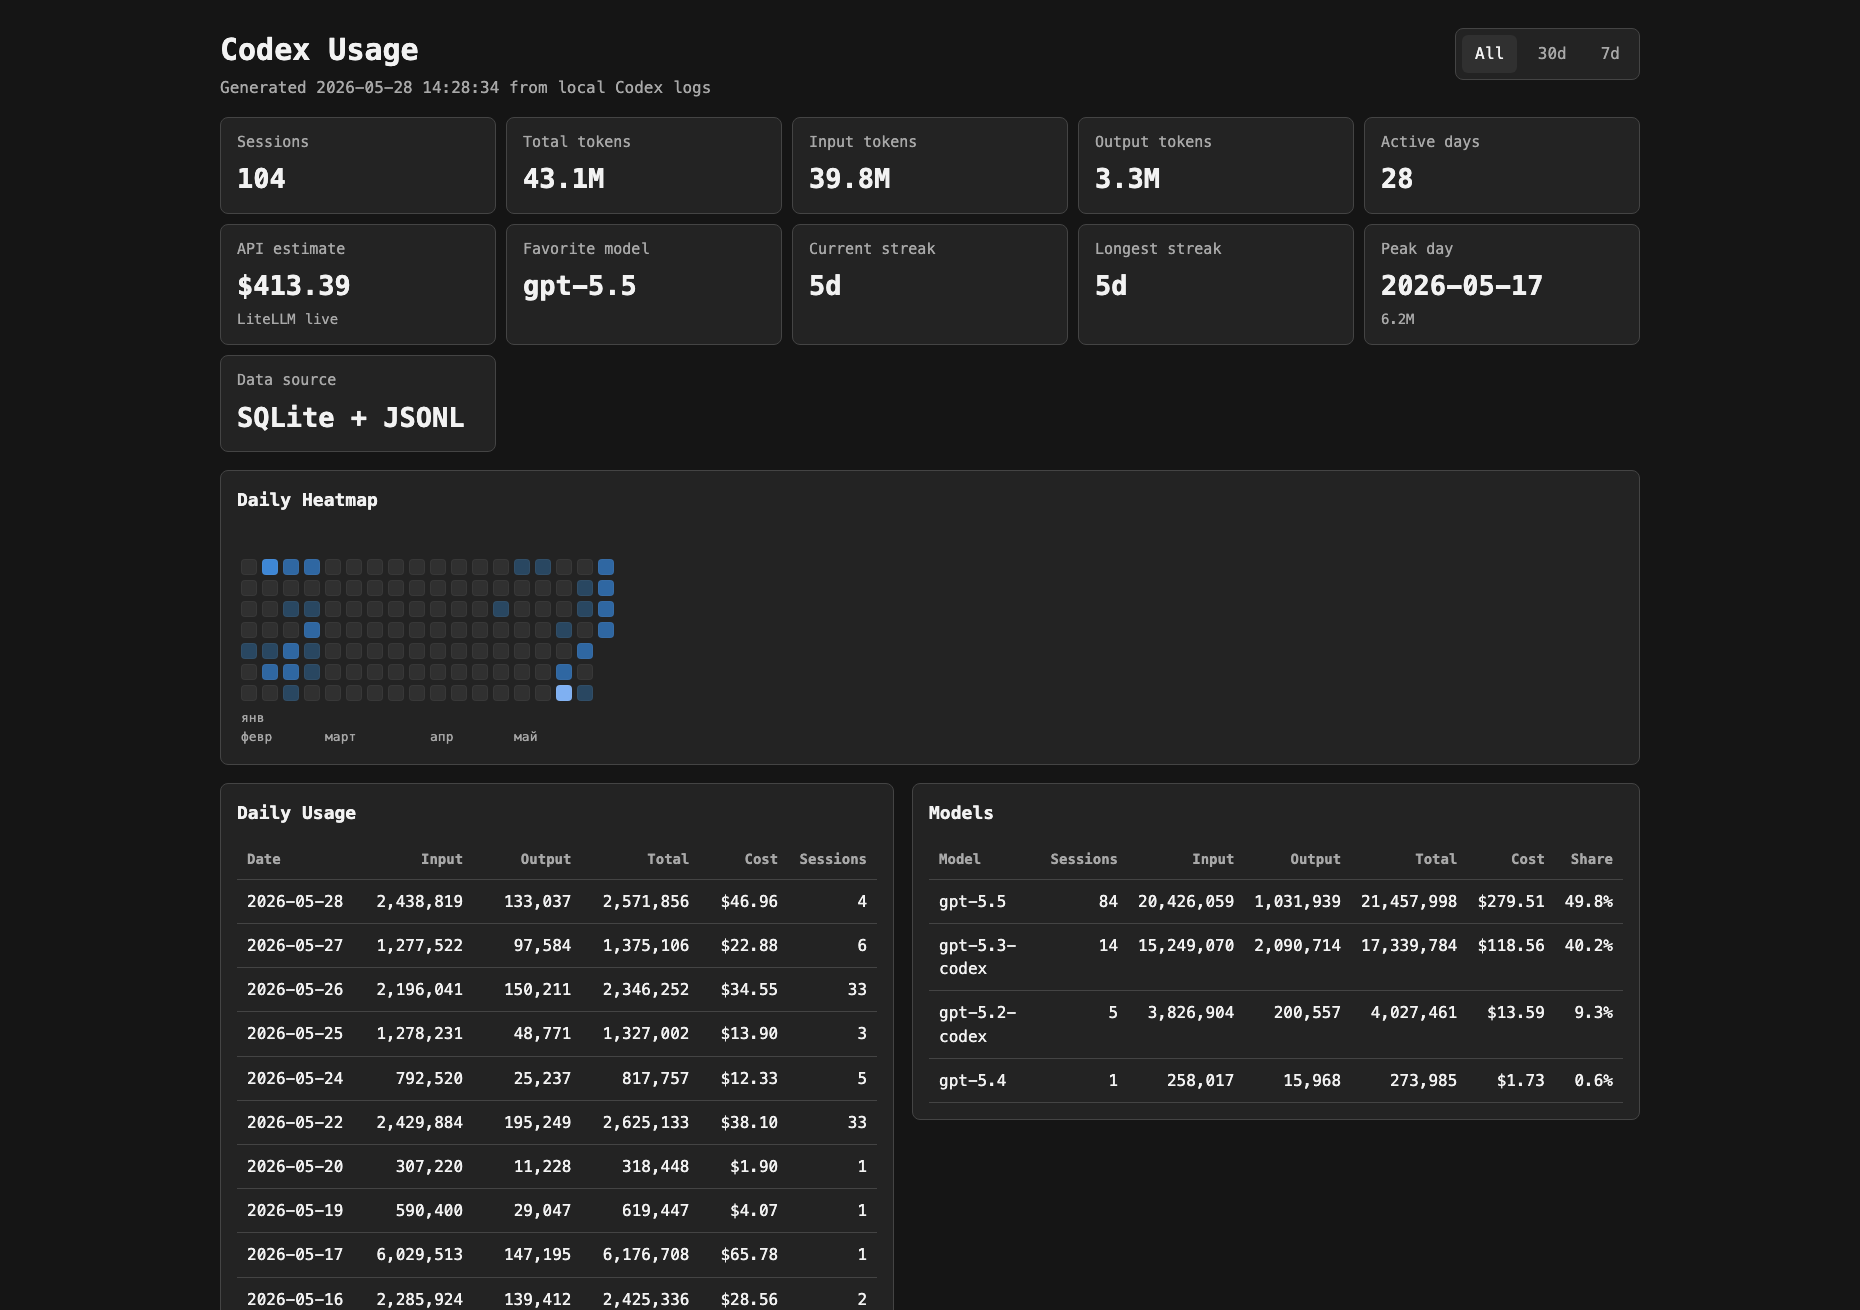
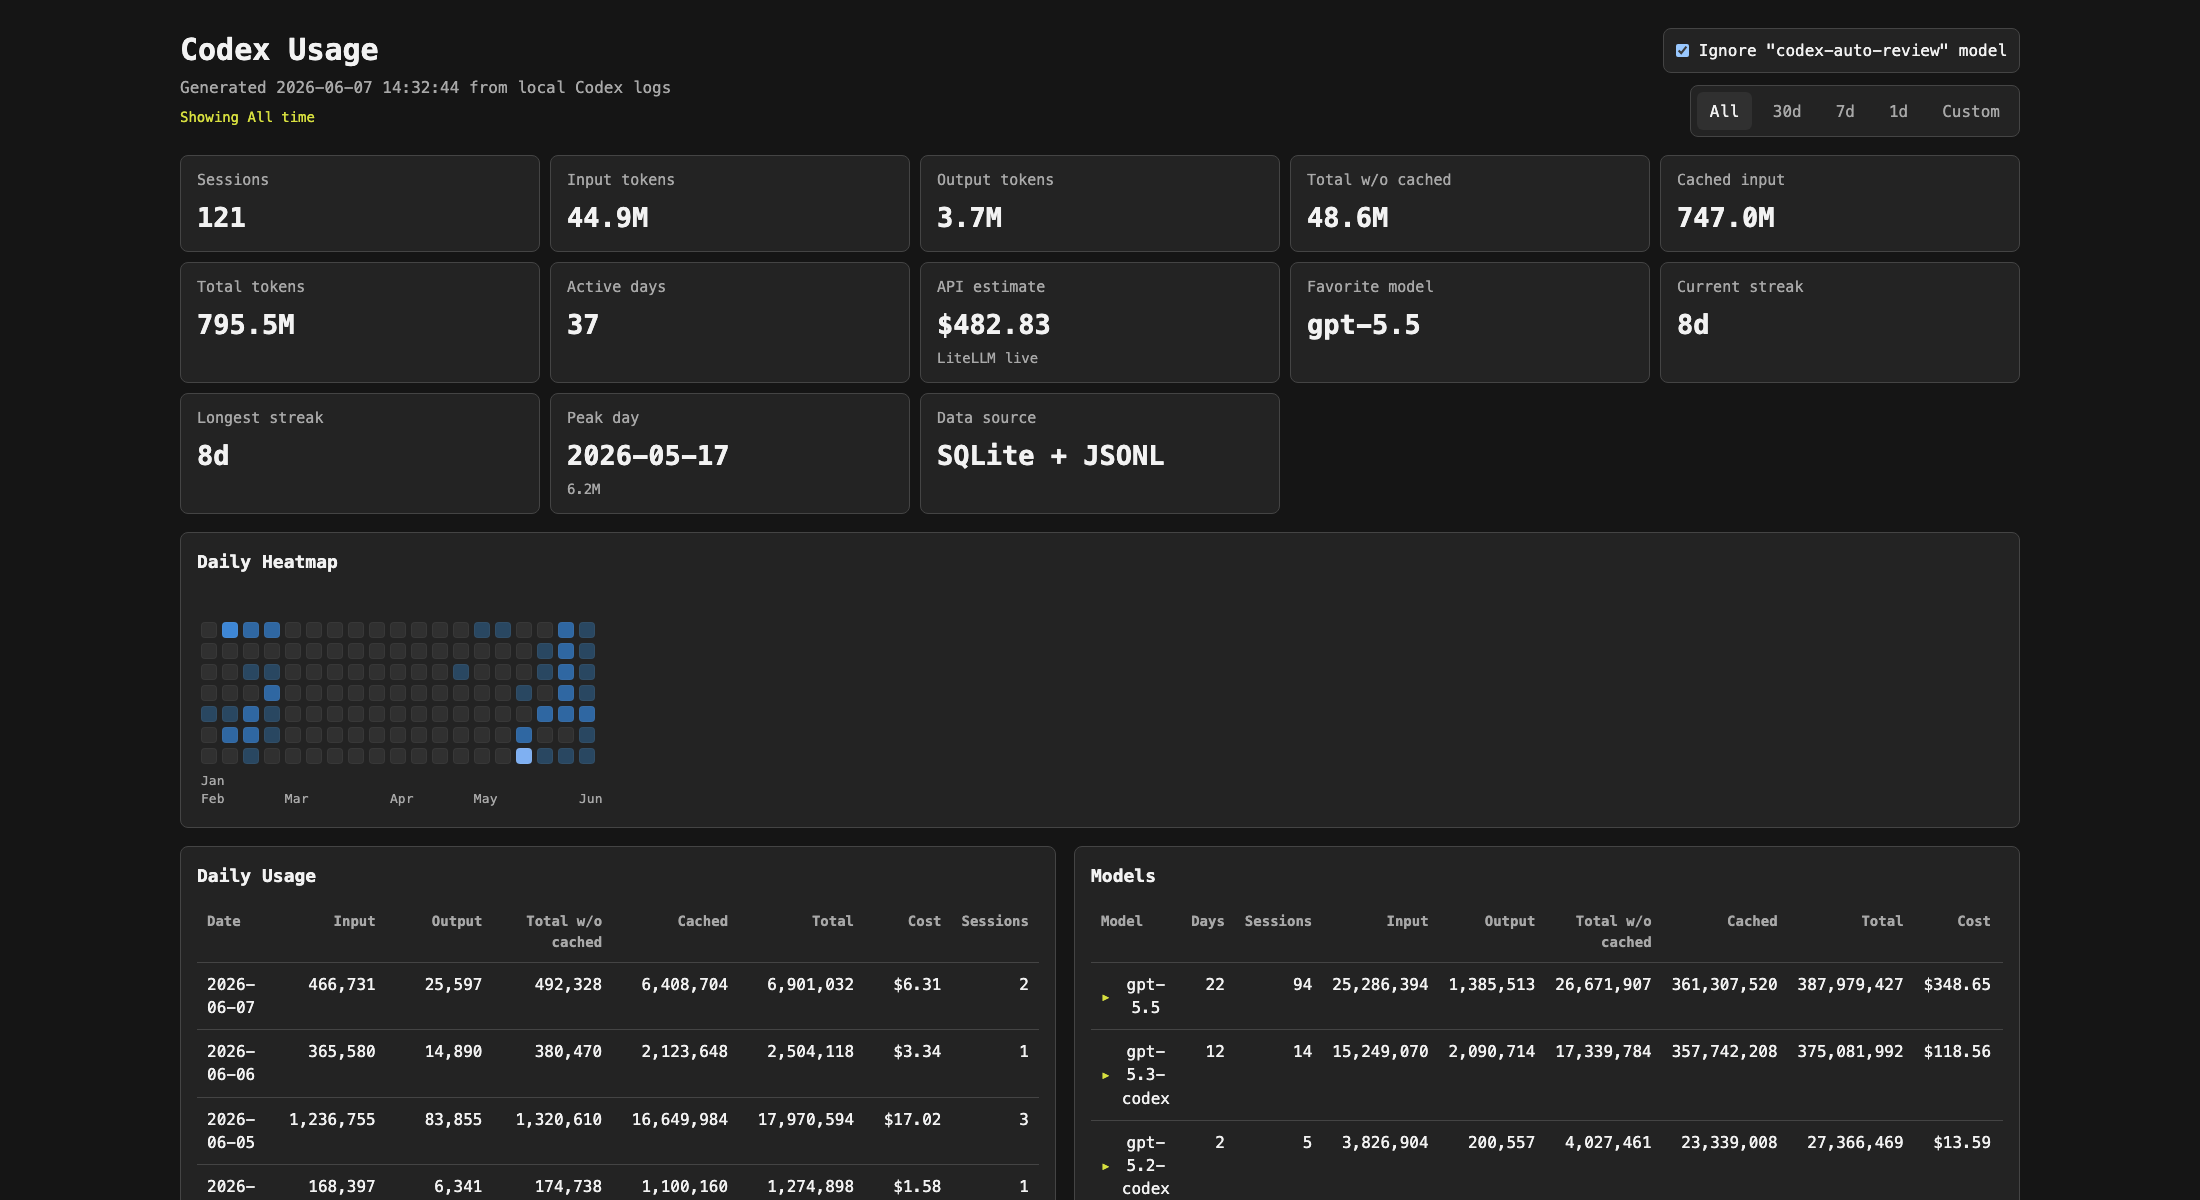
Prepare 1.0.2 release

diff --git a/src/main.js b/src/main.js
@@ -24,7 +24,7 @@ const expandedModels = new Set();
 
 const numberFormatter = new Intl.NumberFormat("en-US");
 const moneyFormatter = new Intl.NumberFormat("en-US", { style: "currency", currency: "USD" });
-const monthFormatter = new Intl.DateTimeFormat("ru-RU", { month: "short" });
+const monthFormatter = new Intl.DateTimeFormat("en-US", { month: "short" });
 
 function compact(value) {
   const number = Number(value || 0);
@@ -203,9 +203,9 @@ function renderModelDetails(row) {
       <div class="detail-meta">Used on ${full(row.active_days)} day(s) in this range.</div>
       <div class="table-scroll">
         <table class="detail-table">
-          <thead><tr><th>Date</th><th class="num">Input</th><th class="num">Cached</th><th class="num">Output</th><th class="num">Total</th><th class="num">Cost</th><th class="num">Sessions</th></tr></thead>
+          <thead><tr><th>Date</th><th class="num">Input</th><th class="num">Output</th><th class="num">Total w/o cached</th><th class="num">Cached</th><th class="num">Total</th><th class="num">Cost</th><th class="num">Sessions</th></tr></thead>
           <tbody>
-            ${row.daily.map((item) => `<tr><td>${escapeHtml(item.day)}</td><td class="num">${full(item.input_tokens)}</td><td class="num">${full(item.cached_input_tokens)}</td><td class="num">${full(item.output_tokens)}</td><td class="num">${full(item.total_tokens)}</td><td class="num">${money(item.cost_usd)}</td><td class="num">${full(item.sessions)}</td></tr>`).join("")}
+            ${row.daily.map((item) => `<tr><td>${escapeHtml(item.day)}</td><td class="num">${full(item.input_tokens)}</td><td class="num">${full(item.output_tokens)}</td><td class="num">${full(item.total_tokens)}</td><td class="num">${full(item.cached_input_tokens)}</td><td class="num">${full(item.total_with_cached_tokens)}</td><td class="num">${money(item.cost_usd)}</td><td class="num">${full(item.sessions)}</td></tr>`).join("")}
           </tbody>
         </table>
       </div>
@@ -253,10 +253,11 @@ function render(data) {
 
     <div class="cards">
       ${card("Sessions", full(totals.sessions))}
-      ${card("Total tokens", compact(totals.total_tokens))}
       ${card("Input tokens", compact(totals.input_tokens))}
-      ${card("Cached input", compact(totals.cached_input_tokens))}
       ${card("Output tokens", compact(totals.output_tokens))}
+      ${card("Total w/o cached", compact(totals.total_tokens))}
+      ${card("Cached input", compact(totals.cached_input_tokens))}
+      ${card("Total tokens", compact(totals.total_with_cached_tokens))}
       ${card("Active days", full(totals.active_days))}
       ${card("API estimate", `${money(totals.cost_usd)}<span class="metric-note">${escapeHtml(data.pricing?.source || "pricing unavailable")}</span>`)}
       ${card("Favorite model", escapeHtml(data.favorite_model))}
@@ -285,11 +286,11 @@ function render(data) {
         <h2>Daily Usage</h2>
         <div class="table-scroll">
           <table>
-            <thead><tr><th>Date</th><th class="num">Input</th><th class="num">Cached</th><th class="num">Output</th><th class="num">Total</th><th class="num">Cost</th><th class="num">Sessions</th></tr></thead>
+            <thead><tr><th>Date</th><th class="num">Input</th><th class="num">Output</th><th class="num">Total w/o cached</th><th class="num">Cached</th><th class="num">Total</th><th class="num">Cost</th><th class="num">Sessions</th></tr></thead>
             <tbody>
-              ${daily.map((row) => `<tr><td>${escapeHtml(row.day)}</td><td class="num">${full(row.input_tokens)}</td><td class="num">${full(row.cached_input_tokens)}</td><td class="num">${full(row.output_tokens)}</td><td class="num">${full(row.total_tokens)}</td><td class="num">${money(row.cost_usd)}</td><td class="num">${full(row.sessions)}</td></tr>`).join("") || '<tr><td colspan="7" class="empty">No usage in this range.</td></tr>'}
+              ${daily.map((row) => `<tr><td>${escapeHtml(row.day)}</td><td class="num">${full(row.input_tokens)}</td><td class="num">${full(row.output_tokens)}</td><td class="num">${full(row.total_tokens)}</td><td class="num">${full(row.cached_input_tokens)}</td><td class="num">${full(row.total_with_cached_tokens)}</td><td class="num">${money(row.cost_usd)}</td><td class="num">${full(row.sessions)}</td></tr>`).join("") || '<tr><td colspan="8" class="empty">No usage in this range.</td></tr>'}
             </tbody>
-            <tfoot><tr><td>Total</td><td class="num">${full(totals.input_tokens)}</td><td class="num">${full(totals.cached_input_tokens)}</td><td class="num">${full(totals.output_tokens)}</td><td class="num">${full(totals.total_tokens)}</td><td class="num">${money(totals.cost_usd)}</td><td class="num">${full(totals.sessions)}</td></tr></tfoot>
+            <tfoot><tr><td>Total</td><td class="num">${full(totals.input_tokens)}</td><td class="num">${full(totals.output_tokens)}</td><td class="num">${full(totals.total_tokens)}</td><td class="num">${full(totals.cached_input_tokens)}</td><td class="num">${full(totals.total_with_cached_tokens)}</td><td class="num">${money(totals.cost_usd)}</td><td class="num">${full(totals.sessions)}</td></tr></tfoot>
           </table>
         </div>
       </section>
@@ -298,7 +299,7 @@ function render(data) {
         <h2>Models</h2>
         <div class="table-scroll">
           <table>
-            <thead><tr><th>Model</th><th class="num">Days</th><th class="num">Sessions</th><th class="num">Input</th><th class="num">Cached</th><th class="num">Output</th><th class="num">Total</th><th class="num">Cost</th><th class="num">Share</th></tr></thead>
+            <thead><tr><th>Model</th><th class="num">Days</th><th class="num">Sessions</th><th class="num">Input</th><th class="num">Output</th><th class="num">Total w/o cached</th><th class="num">Cached</th><th class="num">Total</th><th class="num">Cost</th><th class="num">Share</th></tr></thead>
             <tbody>
               ${data.models.map((row) => {
                 const expanded = expandedModels.has(row.model);
@@ -313,15 +314,16 @@ function render(data) {
                     <td class="num">${full(row.active_days)}</td>
                     <td class="num">${full(row.sessions)}</td>
                     <td class="num">${full(row.input_tokens)}</td>
-                    <td class="num">${full(row.cached_input_tokens)}</td>
                     <td class="num">${full(row.output_tokens)}</td>
                     <td class="num">${full(row.total_tokens)}</td>
+                    <td class="num">${full(row.cached_input_tokens)}</td>
+                    <td class="num">${full(row.total_with_cached_tokens)}</td>
                     <td class="num">${money(row.cost_usd)}</td>
                     <td class="num">${((row.total_tokens / Math.max(totals.total_tokens, 1)) * 100).toFixed(1)}%</td>
                   </tr>
-                  ${expanded ? `<tr class="model-detail-row"><td colspan="9">${renderModelDetails(row)}</td></tr>` : ""}
+                  ${expanded ? `<tr class="model-detail-row"><td colspan="10">${renderModelDetails(row)}</td></tr>` : ""}
                 `;
-              }).join("") || '<tr><td colspan="9" class="empty">No models in this range.</td></tr>'}
+              }).join("") || '<tr><td colspan="10" class="empty">No models in this range.</td></tr>'}
             </tbody>
           </table>
         </div>

diff --git a/src/styles.css b/src/styles.css
@@ -28,7 +28,7 @@ body {
 }
 
 #app {
-  width: min(1420px, calc(100vw - 32px));
+  width: min(1840px, calc(100vw - 32px));
   margin: 28px auto 56px;
 }
 
@@ -272,7 +272,7 @@ section {
 table {
   width: 100%;
   border-collapse: collapse;
-  min-width: 520px;
+  min-width: 680px;
 }
 
 th,
@@ -348,7 +348,7 @@ tfoot td {
 }
 
 .detail-table {
-  min-width: 480px;
+  min-width: 624px;
 }
 
 .detail-empty {
@@ -386,7 +386,7 @@ tfoot td {
 
 @media (max-width: 520px) {
   #app {
-    width: min(100vw - 20px, 1420px);
+    width: min(100vw - 20px, 1840px);
     margin-top: 18px;
   }
 

diff --git a/dashboard_api.py b/dashboard_api.py
@@ -299,7 +299,8 @@ def token_events(db_path: Path, filters: dict[str, str | int | bool | None]) -> 
                         "raw_input_tokens": input_tokens,
                         "output_tokens": output_tokens,
                         "reasoning_output_tokens": reasoning_output_tokens,
-                        "total_tokens": billable_input_tokens + cached_input_tokens + output_tokens,
+                        "total_tokens": billable_input_tokens + output_tokens,
+                        "total_with_cached_tokens": billable_input_tokens + cached_input_tokens + output_tokens,
                     }
                 )
     return events
@@ -339,6 +340,7 @@ def load_usage(
                 "output_tokens": 0,
                 "reasoning_output_tokens": 0,
                 "total_tokens": 0,
+                "total_with_cached_tokens": 0,
                 "cost_usd": 0.0,
             },
         )
@@ -354,6 +356,7 @@ def load_usage(
                 "output_tokens": 0,
                 "reasoning_output_tokens": 0,
                 "total_tokens": 0,
+                "total_with_cached_tokens": 0,
                 "cost_usd": 0.0,
                 "daily_map": {},
             },
@@ -370,6 +373,7 @@ def load_usage(
                 "output_tokens": 0,
                 "reasoning_output_tokens": 0,
                 "total_tokens": 0,
+                "total_with_cached_tokens": 0,
                 "cost_usd": 0.0,
             },
         )
@@ -381,6 +385,7 @@ def load_usage(
             "output_tokens",
             "reasoning_output_tokens",
             "total_tokens",
+            "total_with_cached_tokens",
             "cost_usd",
         ):
             daily[key] += event[key]
@@ -408,6 +413,7 @@ def load_usage(
     total_output = sum(row["output_tokens"] for row in day_rows)
     total_reasoning = sum(row["reasoning_output_tokens"] for row in day_rows)
     total_tokens = sum(row["total_tokens"] for row in day_rows)
+    total_with_cached = sum(row["total_with_cached_tokens"] for row in day_rows)
     total_cost = sum(row["cost_usd"] for row in day_rows)
 
     return {
@@ -424,6 +430,7 @@ def load_usage(
             "output_tokens": total_output,
             "reasoning_output_tokens": total_reasoning,
             "total_tokens": total_tokens,
+            "total_with_cached_tokens": total_with_cached,
             "cost_usd": total_cost,
         },
         "daily": day_rows,
@@ -515,15 +522,16 @@ def render_dashboard(data: dict) -> str:
           <td>All</td>
           <td>Codex</td>
           <td class="num">{fmt_int(row["input_tokens"])}</td>
-          <td class="num">{fmt_int(row["cached_input_tokens"])}</td>
           <td class="num">{fmt_int(row["output_tokens"])}</td>
           <td class="num">{fmt_int(row["total_tokens"])}</td>
+          <td class="num">{fmt_int(row["cached_input_tokens"])}</td>
+          <td class="num">{fmt_int(row["total_with_cached_tokens"])}</td>
           <td class="num">{fmt_usd(row["cost_usd"])}</td>
           <td class="num">{fmt_int(row["sessions"])}</td>
         </tr>
         """
         for row in daily_desc
-    ) or '<tr><td colspan="9" class="empty">No usage in this range.</td></tr>'
+    ) or '<tr><td colspan="10" class="empty">No usage in this range.</td></tr>'
 
     model_rows = "\n".join(
         f"""
@@ -531,15 +539,16 @@ def render_dashboard(data: dict) -> str:
           <td>{html.escape(row["model"])}</td>
           <td class="num">{fmt_int(row["sessions"])}</td>
           <td class="num">{fmt_int(row["input_tokens"])}</td>
-          <td class="num">{fmt_int(row["cached_input_tokens"])}</td>
           <td class="num">{fmt_int(row["output_tokens"])}</td>
           <td class="num">{fmt_int(row["total_tokens"])}</td>
+          <td class="num">{fmt_int(row["cached_input_tokens"])}</td>
+          <td class="num">{fmt_int(row["total_with_cached_tokens"])}</td>
           <td class="num">{fmt_usd(row["cost_usd"])}</td>
           <td class="num">{(row["total_tokens"] / max(totals["total_tokens"], 1) * 100):.1f}%</td>
         </tr>
         """
         for row in data["models"]
-    ) or '<tr><td colspan="8" class="empty">No models in this range.</td></tr>'
+    ) or '<tr><td colspan="9" class="empty">No models in this range.</td></tr>'
 
     heatmap = "\n".join(
         f"""
@@ -585,7 +594,7 @@ def render_dashboard(data: dict) -> str:
       line-height: 1.45;
     }}
     main {{
-      width: min(1180px, calc(100vw - 32px));
+      width: min(1534px, calc(100vw - 32px));
       margin: 28px auto 56px;
     }}
     header {{
@@ -699,7 +708,7 @@ def render_dashboard(data: dict) -> str:
     table {{
       width: 100%;
       border-collapse: collapse;
-      min-width: 720px;
+      min-width: 936px;
     }}
     th, td {{
       border-bottom: 1px solid var(--line);
@@ -746,7 +755,7 @@ def render_dashboard(data: dict) -> str:
       .tables {{ grid-template-columns: 1fr; }}
     }}
     @media (max-width: 520px) {{
-      main {{ width: min(100vw - 20px, 1180px); margin-top: 18px; }}
+      main {{ width: min(100vw - 20px, 1534px); margin-top: 18px; }}
       .cards {{ grid-template-columns: 1fr; }}
       h1 {{ font-size: 25px; }}
       .value {{ font-size: 23px; }}
@@ -772,10 +781,11 @@ def render_dashboard(data: dict) -> str:
 
     <div class="cards">
       <div class="card"><div class="label">Sessions</div><div class="value">{fmt_int(totals["sessions"])}</div></div>
-      <div class="card"><div class="label">Total tokens</div><div class="value">{fmt_short(totals["total_tokens"])}</div></div>
       <div class="card"><div class="label">Input tokens</div><div class="value">{fmt_short(totals["input_tokens"])}</div></div>
-      <div class="card"><div class="label">Cached input</div><div class="value">{fmt_short(totals["cached_input_tokens"])}</div></div>
       <div class="card"><div class="label">Output tokens</div><div class="value">{fmt_short(totals["output_tokens"])}</div></div>
+      <div class="card"><div class="label">Total w/o cached</div><div class="value">{fmt_short(totals["total_tokens"])}</div></div>
+      <div class="card"><div class="label">Cached input</div><div class="value">{fmt_short(totals["cached_input_tokens"])}</div></div>
+      <div class="card"><div class="label">Total tokens</div><div class="value">{fmt_short(totals["total_with_cached_tokens"])}</div></div>
       <div class="card"><div class="label">Active days</div><div class="value">{fmt_int(totals["active_days"])}</div></div>
       <div class="card"><div class="label">API estimate</div><div class="value">{fmt_usd(totals["cost_usd"])}<span class="metric-note">{html.escape(data["pricing"]["source"])}</span></div></div>
       <div class="card"><div class="label">Favorite model</div><div class="value">{html.escape(data["favorite_model"])}</div></div>
@@ -795,9 +805,9 @@ def render_dashboard(data: dict) -> str:
         <h2>Daily Usage</h2>
         <div class="table-scroll">
           <table>
-            <thead><tr><th>Date</th><th>Scope</th><th>App</th><th class="num">Input</th><th class="num">Cached</th><th class="num">Output</th><th class="num">Total</th><th class="num">Cost</th><th class="num">Sessions</th></tr></thead>
+            <thead><tr><th>Date</th><th>Scope</th><th>App</th><th class="num">Input</th><th class="num">Output</th><th class="num">Total w/o cached</th><th class="num">Cached</th><th class="num">Total</th><th class="num">Cost</th><th class="num">Sessions</th></tr></thead>
             <tbody>{day_rows}</tbody>
-            <tfoot><tr><td>Total</td><td></td><td></td><td class="num">{fmt_int(totals["input_tokens"])}</td><td class="num">{fmt_int(totals["cached_input_tokens"])}</td><td class="num">{fmt_int(totals["output_tokens"])}</td><td class="num">{fmt_int(totals["total_tokens"])}</td><td class="num">{fmt_usd(totals["cost_usd"])}</td><td class="num">{fmt_int(totals["sessions"])}</td></tr></tfoot>
+            <tfoot><tr><td>Total</td><td></td><td></td><td class="num">{fmt_int(totals["input_tokens"])}</td><td class="num">{fmt_int(totals["output_tokens"])}</td><td class="num">{fmt_int(totals["total_tokens"])}</td><td class="num">{fmt_int(totals["cached_input_tokens"])}</td><td class="num">{fmt_int(totals["total_with_cached_tokens"])}</td><td class="num">{fmt_usd(totals["cost_usd"])}</td><td class="num">{fmt_int(totals["sessions"])}</td></tr></tfoot>
           </table>
         </div>
       </section>
@@ -806,7 +816,7 @@ def render_dashboard(data: dict) -> str:
         <h2>Models</h2>
         <div class="table-scroll">
           <table>
-            <thead><tr><th>Model</th><th class="num">Sessions</th><th class="num">Input</th><th class="num">Cached</th><th class="num">Output</th><th class="num">Total</th><th class="num">Cost</th><th class="num">Share</th></tr></thead>
+            <thead><tr><th>Model</th><th class="num">Sessions</th><th class="num">Input</th><th class="num">Output</th><th class="num">Total w/o cached</th><th class="num">Cached</th><th class="num">Total</th><th class="num">Cost</th><th class="num">Share</th></tr></thead>
             <tbody>{model_rows}</tbody>
           </table>
         </div>
@@ -973,6 +983,21 @@ def run_check(db_path: Path) -> None:
         data = load_usage(db_path, range_name, start_day, end_day, ignore_auto_review)
         html_body = render_dashboard(data)
         json.dumps(data, ensure_ascii=False)
+        totals = data["totals"]
+        if totals["total_tokens"] != totals["input_tokens"] + totals["output_tokens"]:
+            raise RuntimeError(f"Total without cached invariant failed for range={range_name}")
+        if totals["total_with_cached_tokens"] != totals["total_tokens"] + totals["cached_input_tokens"]:
+            raise RuntimeError(f"Total with cached invariant failed for range={range_name}")
+        for row in data["daily"]:
+            if row["total_tokens"] != row["input_tokens"] + row["output_tokens"]:
+                raise RuntimeError(f"Daily total without cached invariant failed for range={range_name}")
+            if row["total_with_cached_tokens"] != row["total_tokens"] + row["cached_input_tokens"]:
+                raise RuntimeError(f"Daily total with cached invariant failed for range={range_name}")
+        for row in data["models"]:
+            if row["total_tokens"] != row["input_tokens"] + row["output_tokens"]:
+                raise RuntimeError(f"Model total without cached invariant failed for range={range_name}")
+            if row["total_with_cached_tokens"] != row["total_tokens"] + row["cached_input_tokens"]:
+                raise RuntimeError(f"Model total with cached invariant failed for range={range_name}")
         if "<!doctype html>" not in html_body:
             raise RuntimeError(f"Dashboard render failed for range={range_name}")
     print(f"Smoke check passed for {db_path}")

diff --git a/README.md b/README.md
@@ -9,11 +9,12 @@ This project is not affiliated with OpenAI.
 ## Features
 
 - Local-only dashboard served on `127.0.0.1`
-- Summary cards for sessions, token usage, API-equivalent cost estimate, active days, streaks, peak day, and favorite model
-- Daily usage table with input, output, total tokens, and estimated cost
-- Model breakdown table with estimated cost by model
+- Summary cards for sessions, token usage with and without cached input, API-equivalent cost estimate, active days, streaks, peak day, and favorite model
+- Daily usage table with input, output, total without cached input, cached input, total with cached input, and estimated cost
+- Model breakdown table with expandable daily model details and estimated cost by model
 - Daily heatmap with month labels and hover tooltips
-- Range filters: all time, 30 days, 7 days
+- Range filters: all time, 30 days, 7 days, 1 day, and custom dates
+- Optional filter to ignore the `codex-auto-review` model
 - macOS `.command` launcher
 
 ## Data Sources
@@ -32,8 +33,12 @@ Displayed token accounting follows the same practical convention used by local u
 ```text
 Input = input_tokens - cached_input_tokens
 Output = output_tokens
-Total = Input + Output
+Total w/o cached = Input + Output
+Cached = cached_input_tokens
+Total = Input + Cached + Output
 ```
+
+The historical dashboard total is preserved as `Total w/o cached`. The `Total` column includes cached input so you can see the full token volume represented in local Codex logs.
 
 ## Cost Estimates
 
@@ -101,7 +106,7 @@ To install a specific release instead of the latest `main`, use a tag:
 
 ```bash
 git fetch --tags
-git checkout v1.0.1
+git checkout v1.0.2
 npm install
 ```
 

diff --git a/CHANGELOG.md b/CHANGELOG.md
@@ -1,5 +1,15 @@
 # Changelog
 
+## 1.0.2 - 2026-06-07
+
+- Added Windows-friendly Python command resolution for the launcher and smoke-check.
+- Added cached input token visibility while preserving the original total-without-cached token accounting.
+- Added a total-with-cached token metric for daily usage, model breakdowns, and summary cards.
+- Added 1-day and custom date range filters.
+- Added an option to ignore the `codex-auto-review` model.
+- Added expandable daily details for each model.
+- Thanks @nisaev for the pull request that contributed the Windows support and cached-token dashboard improvements.
+
 ## 1.0.1 - 2026-05-28
 
 - Added API-equivalent USD cost estimates for totals, daily usage, and model breakdowns.